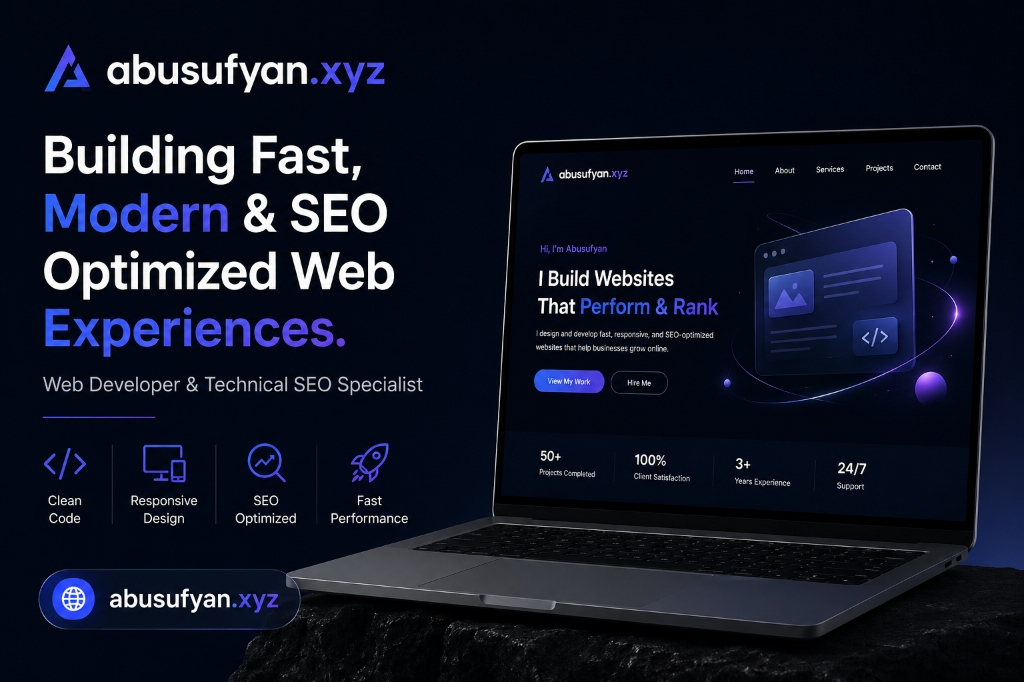
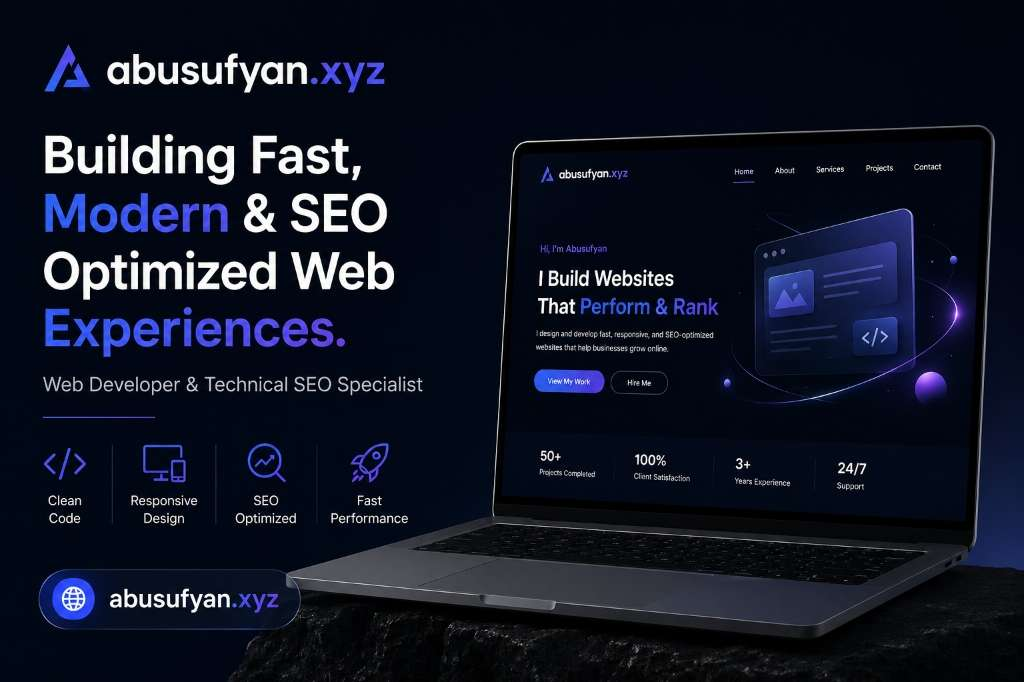
fix(seo): implement comprehensive GEO and SEO audit fixes including image compression, semantic H2s, schema injection, and meta tags

diff --git a/index.html b/index.html
@@ -3,8 +3,8 @@
 <head>
 <meta charset="UTF-8">
 <meta name="viewport" content="width=device-width, initial-scale=1.0">
-<title>Abu Sufyan | Indie Maker & Tool Builder | 5 Live Projects | Pakistan</title>
-<meta name="description" content="Abu Sufyan — solo indie maker from Lahore, Pakistan. Building free professional tools used globally: WebToolkit Pro (150+ dev tools), Severance Calculator (30+ countries), TradeConvert. No sign-ups. Just answers.">
+<title>Abu Sufyan | Solo Maker & Tool Builder | 9 Live Projects</title>
+<meta name="description" content="Solo indie maker building free professional tools like WebToolkit Pro and Severance Calculator. No sign-ups. No paywalls. Just instant answers.">
 <meta name="keywords" content="Abu Sufyan, Solo Maker, Tool Builder, Lahore Developer, Pakistan, Global Severance Calculator, WebToolkit Pro, TradeConvert, Free Online Tools, Indie Maker, Developer Portfolio">
 <meta name="author" content="Abu Sufyan">
 <meta name="robots" content="index, follow">
@@ -16,8 +16,8 @@
 <!-- Open Graph / Facebook -->
 <meta property="og:type" content="website">
 <meta property="og:url" content="https://abusufyan.xyz/">
-<meta property="og:title" content="Abu Sufyan — 5 Live Projects. 160+ Free Tools. One Maker.">
-<meta property="og:description" content="Solo indie maker from Pakistan. WebToolkit Pro (150+ dev tools), Severance Calculator (8 countries), TradeConvert. All free, all instant, no sign-up.">
+<meta property="og:title" content="Abu Sufyan | Solo Maker & Tool Builder | 9 Live Projects">
+<meta property="og:description" content="Solo indie maker building free professional tools like WebToolkit Pro and Severance Calculator. No sign-ups. No paywalls. Just instant answers.">
 <meta property="og:image" content="https://abusufyan.xyz/og-image.jpg">
 <meta property="og:site_name" content="Abu Sufyan — Solo Maker">
 
@@ -240,7 +240,7 @@ nav{position:fixed;top:0;left:0;right:0;z-index:100;padding:0 48px;height:56px;d
 .about-grid{display:grid;grid-template-columns:1.1fr 1fr;gap:72px;align-items:start}
 .about-intro{font-family:'Playfair Display',serif;font-size:clamp(20px,2.5vw,30px);font-weight:400;line-height:1.45;color:var(--text);margin-bottom:24px;font-style:italic}
 .about-intro strong{font-style:normal;font-weight:700}
-.about-p{font-size:14px;color:var(--muted);line-height:1.8;margin-bottom:14px}
+.about-p{font-size:16px;color:var(--muted);line-height:1.8;margin-bottom:14px}
 .about-p strong{color:var(--text);font-weight:600}
 .beliefs{border:1px solid var(--border)}
 .belief{padding:18px 22px;border-bottom:1px solid var(--border);font-size:13px;line-height:1.65;color:var(--muted)}
@@ -490,16 +490,46 @@ nav.scrolled{
 .story-item h3 { font-family: 'Playfair Display', serif; font-size: 28px; margin-bottom: 12px; }
 .story-item h3 a { color: var(--text); text-decoration: none; transition: color 0.2s; }
 .story-item h3 a:hover { color: var(--accent2); }
-.story-item p { font-size: 15px; color: var(--muted); line-height: 1.8; max-width: 700px; }
+.story-item p { font-size: 16px; color: var(--muted); line-height: 1.8; max-width: 700px; }
 .story-item:active { transform: scale(0.99); transition: transform 160ms var(--ease-out); }
 
 /* ── IMPACT GRID ── */
 .impact-grid { display: grid; grid-template-columns: 1fr 1fr; gap: 24px; }
 .impact-item { background: var(--surface); border: 1px solid var(--border); padding: 32px; border-radius: 4px; }
-.impact-quote { font-size: 15px; color: var(--text); line-height: 1.7; font-style: italic; }
+.impact-quote { font-size: 16px; color: var(--text); line-height: 1.7; font-style: italic; }
 @media(max-width: 700px) { .impact-grid { grid-template-columns: 1fr; } }
 
 </style>
+
+<!-- FAQ Schema -->
+<script type="application/ld+json">
+{
+  "@context": "https://schema.org",
+  "@type": "FAQPage",
+  "mainEntity": [{
+    "@type": "Question",
+    "name": "Are the tools on WebToolkit Pro free to use?",
+    "acceptedAnswer": {
+      "@type": "Answer",
+      "text": "Yes, all 150+ developer tools on WebToolkit Pro are 100% free with no sign-ups or paywalls required."
+    }
+  }, {
+    "@type": "Question",
+    "name": "How does the Severance Calculator work?",
+    "acceptedAnswer": {
+      "@type": "Answer",
+      "text": "The Severance Calculator uses official 2026 labor law formulas to compute end-of-service benefits and gratuity payouts across 30+ countries."
+    }
+  }, {
+    "@type": "Question",
+    "name": "Where is Abu Sufyan based?",
+    "acceptedAnswer": {
+      "@type": "Answer",
+      "text": "Abu Sufyan is a solo indie maker and tool builder based in Lahore, Pakistan."
+    }
+  }]
+}
+</script>
 </head>
 <body>
 
@@ -550,7 +580,7 @@ nav.scrolled{
 <!-- TOOLS -->
 <section class="section" id="tools">
   <div class="sec-hdr">
-    <span class="sec-title">Tools &amp; Projects</span>
+    <h2 class="sec-title" style="margin:0;display:inline;font-size:inherit;letter-spacing:inherit;text-transform:inherit;">What do I build?</h2>
     <span class="sec-count">08 items</span>
   </div>
 
@@ -595,7 +625,7 @@ nav.scrolled{
 <!-- PROOF -->
 <section class="section" id="proof">
   <div class="sec-hdr">
-    <span class="sec-title">By The Numbers</span>
+    <h2 class="sec-title" style="margin:0;display:inline;font-size:inherit;letter-spacing:inherit;text-transform:inherit;">What is the impact?</h2>
     <span class="sec-count">Social proof</span>
   </div>
 
@@ -620,7 +650,7 @@ nav.scrolled{
 <!-- ABOUT -->
 <section class="section" id="about">
   <div class="sec-hdr">
-    <span class="sec-title">About</span>
+    <h2 class="sec-title" style="margin:0;display:inline;font-size:inherit;letter-spacing:inherit;text-transform:inherit;">Who is the maker?</h2>
     <span class="sec-count">The maker</span>
   </div>
 
@@ -636,7 +666,12 @@ nav.scrolled{
          </div>
       </div>
 
-      <p class="about-p">I'm a solo maker from <strong>Pakistan</strong>. I build free professional tools for people who need quick, reliable answers — HR managers calculating severance, developers formatting JSON, writers counting words.</p>
+      <p class="about-p">I'm a solo maker from <strong>Pakistan</strong>. I build free professional tools for people who need quick, reliable answers:</p>
+      <ul class="about-ul" style="font-size: 16px; color: var(--muted); line-height: 1.8; margin-bottom: 14px; padding-left: 20px;">
+        <li><strong>HR managers:</strong> Calculating severance across 30+ countries.</li>
+        <li><strong>Developers:</strong> Formatting JSON securely with client-side execution.</li>
+        <li><strong>Writers & SEOs:</strong> Optimizing content and tracking core web vitals.</li>
+      </ul>
       <p class="about-p">No VC funding. No team. Just spotting real gaps, building clean solutions fast, and putting them online for free. The tools pay for themselves through advertising — so users never pay a cent.</p>
       <p class="about-p">Every tool is built to last — real data sources, updated laws, and a design that doesn't get in the way of the answer.</p>
       <div style="margin-top:28px">